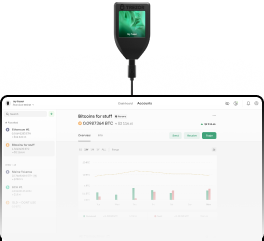
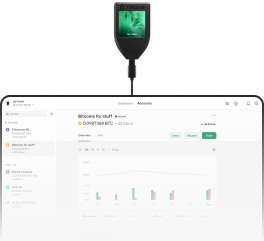
chore(suite-native): dark mode images

Changed region(s): [[0.0, 0.3776, 1.0, 0.668], [0.9697, 0.9876, 1.0, 1.0], [0.0, 0.9876, 0.0303, 1.0]]

diff --git a/suite-native/module-onboarding/src/screens/GetStartedScreen.tsx b/suite-native/module-onboarding/src/screens/GetStartedScreen.tsx
@@ -11,6 +11,7 @@ import {
     StackToStackCompositeNavigationProps,
 } from '@suite-native/navigation';
 import { AlertBox, Box, Image } from '@suite-native/atoms';
+import { useActiveColorScheme } from '@suite-native/theme';
 
 import { OnboardingFooter } from '../components/OnboardingFooter';
 import { OnboardingScreen } from '../components/OnboardingScreen';
@@ -23,11 +24,21 @@ type NavigationProps = StackToStackCompositeNavigationProps<
 
 export const GetStartedScreen = () => {
     const navigation = useNavigation<NavigationProps>();
+    const colorScheme = useActiveColorScheme();
 
     const handleRedirect = () => {
         navigation.navigate(RootStackRoutes.AccountsImport, {
             screen: AccountsImportStackRoutes.SelectNetwork,
         });
+    };
+
+    const getImageSource = () => {
+        if (colorScheme === 'dark') {
+            // eslint-disable-next-line global-require
+            return require('../assets/darkDashboard.png');
+        }
+        // eslint-disable-next-line global-require
+        return require('../assets/dashboard.png');
     };
 
     return (
@@ -38,10 +49,7 @@ export const GetStartedScreen = () => {
         >
             <Box />
             <Box alignItems="center" marginBottom="extraLarge">
-                <Image
-                    //  eslint-disable-next-line global-require
-                    source={require('../assets/dashboard.png')}
-                />
+                <Image source={getImageSource()} />
             </Box>
             <AlertBox title="This requires your Trezor hardware wallet and access to the Trezor Suite desktop app." />
 

diff --git a/suite-native/module-onboarding/src/screens/WelcomeScreen.tsx b/suite-native/module-onboarding/src/screens/WelcomeScreen.tsx
@@ -12,6 +12,7 @@ import {
 import { Icon } from '@trezor/icons';
 import { prepareNativeStyle, useNativeStyles } from '@trezor/styles';
 import { Color } from '@trezor/theme';
+import { useActiveColorScheme } from '@suite-native/theme';
 
 import { OnboardingFooter } from '../components/OnboardingFooter';
 
@@ -41,9 +42,19 @@ export const WelcomeScreen = () => {
             StackNavigationProps<OnboardingStackParamList, OnboardingStackRoutes.Welcome>
         >();
     const { applyStyle } = useNativeStyles();
+    const colorScheme = useActiveColorScheme();
 
     const handleRedirect = () => {
         navigation.navigate(OnboardingStackRoutes.TrackBalances);
+    };
+
+    const getImageSource = () => {
+        if (colorScheme === 'dark') {
+            // eslint-disable-next-line global-require
+            return require('../assets/darkRectangles.png');
+        }
+        // eslint-disable-next-line global-require
+        return require('../assets/rectangles.png');
     };
 
     return (
@@ -68,10 +79,7 @@ export const WelcomeScreen = () => {
                 </Box>
             </Screen>
             <Box style={applyStyle(imageStyle)}>
-                <Image
-                    // eslint-disable-next-line global-require
-                    source={require('../assets/rectangles.png')}
-                />
+                <Image source={getImageSource()} />
             </Box>
         </>
     );
